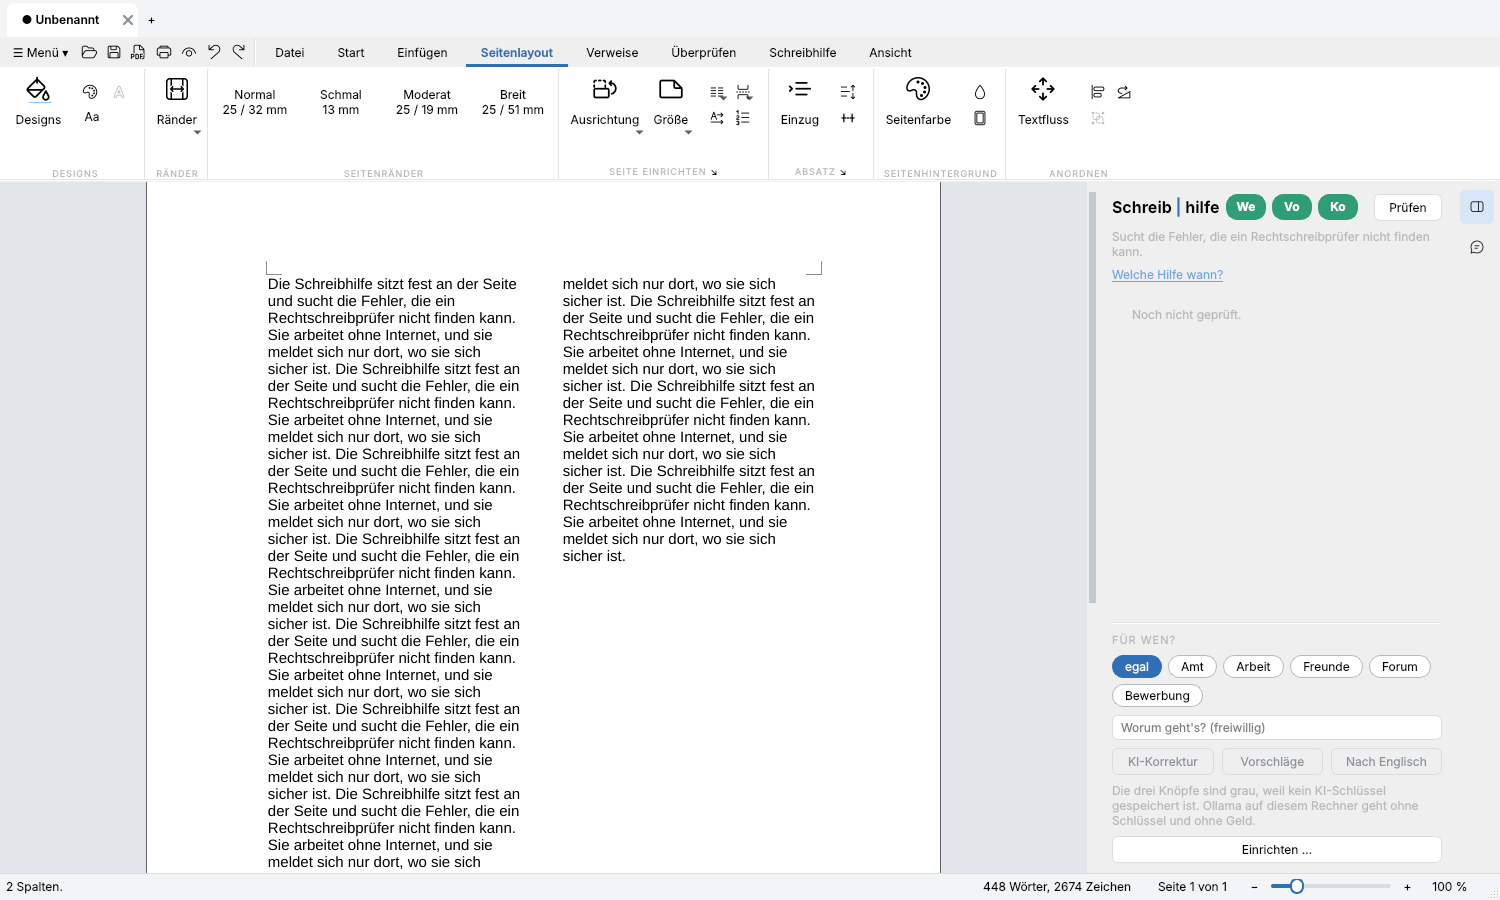
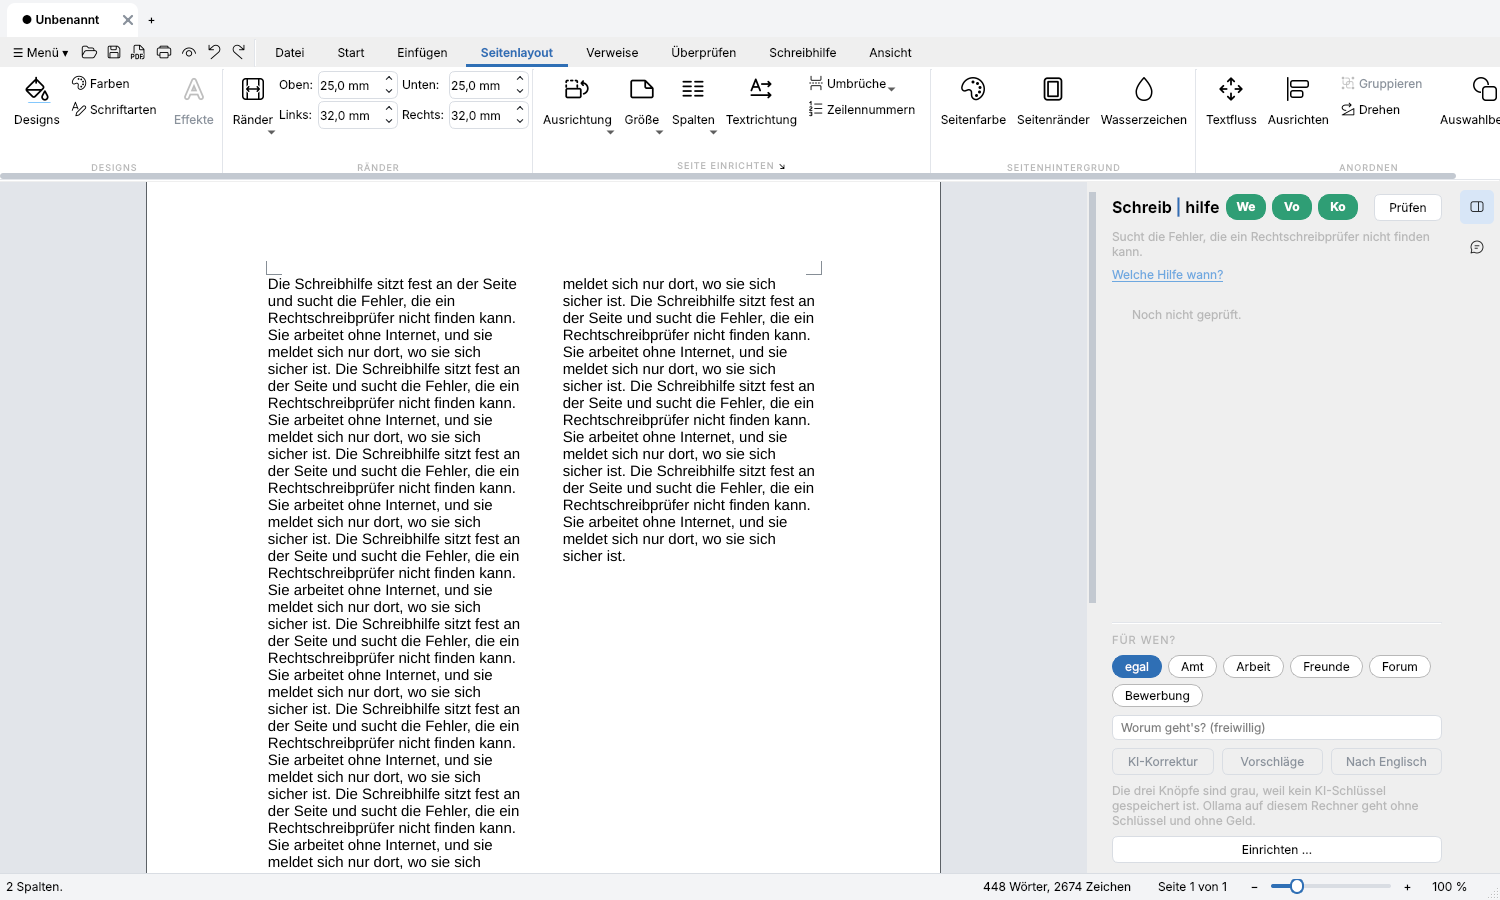
Reiter Seitenlayout wie WPS: Designs, Raender mit vier Massfeldern (Oben/Unten/Links/Rechts, Maßeinheit), Seite einrichten (Orientierung, Groesse, Spalten 1-4, Textrichtung, Umbrueche, Zeilennummern), Seitenhintergrund, Anordnen; Tests; Bilder neu
Claude-Session: https://claude.ai/code/session_016D74conPEqMaSeCxiwDhWx

Changed region(s): [[0.0, 0.0933, 0.9507, 0.1556], [0.0, 0.1867, 0.9813, 0.2178], [0.9507, 0.0933, 1.0, 0.1556]]

diff --git a/src/lunivo_writer/ui/ribbon/tabs/layout_tab.py b/src/lunivo_writer/ui/ribbon/tabs/layout_tab.py
@@ -1,6 +1,34 @@
-"""Reiter „Seitenlayout“: Gruppen aus register.json."""
+"""Reiter „Seitenlayout“ in der Anordnung von WPS Office: Designs, Ränder mit den vier Maßfeldern, Seite einrichten
+(Orientierung, Größe, Spalten, Textrichtung, Umbrüche, Zeilennummern), Seitenhintergrund und Anordnen.
+Einzug, Absatzabstand und Silbentrennung stehen wie bei WPS nicht hier, sondern unter Start ▸ Absatz und Schreibhilfe."""
 from __future__ import annotations
+
+from lunivo_writer.ui.ribbon.tabs.baustein import k as _k
 
 
 def bauen(register: dict) -> dict:
-    return next(t for t in register["register"] if t["name"] == "Seitenlayout")
+    tab = next(t for t in register["register"] if t["name"] == "Seitenlayout")
+    alt = {g["name"]: g for g in tab["gruppen"]}
+    knopf = {k["name"]: k for g in tab["gruppen"] for k in g.get("knoepfe", [])}
+
+    def mit(name, **kw):
+        return dict(knopf[name], **kw)
+
+    spalten = mit("Spalten", gross=True)
+    menue = list(spalten["menue"])
+    if not any(e.get("name") == "Vier" for e in menue):                  # 1 bis 4 Spalten
+        menue.insert(3, {"name": "Vier", "tun": "spaltenSetzen:[4]", "haken": "w.spaltenJetzt"})
+    spalten["menue"] = menue
+
+    designs = {"name": "Designs", "reihenfolge": True, "knoepfe": [
+        mit("Designs", gross=True), mit("Farben", text=True), mit("Schriftarten", symbol="Stil", text=True), mit("Effekte", gross=True)]}
+    raender = {"name": "Ränder", "felder": "raender", "reihenfolge": True, "knoepfe": [mit("Ränder", gross=True)]}
+    einrichten = {"name": "Seite einrichten", "pfeil": alt["Seite einrichten"].get("pfeil"), "reihenfolge": True, "knoepfe": [
+        mit("Ausrichtung", gross=True), mit("Größe", gross=True), spalten, mit("Textrichtung", gross=True),
+        mit("Umbrüche", text=True), mit("Zeilennummern", text=True)]}
+    hintergrund = {"name": "Seitenhintergrund", "reihenfolge": True, "knoepfe": [
+        mit("Seitenfarbe", gross=True), mit("Seitenränder", gross=True), mit("Wasserzeichen", gross=True)]}
+    anordnen = {"name": "Anordnen", "reihenfolge": True, "knoepfe": [
+        mit("Textfluss", gross=True), mit("Ausrichten", gross=True), mit("Gruppieren", text=True), mit("Drehen", text=True),
+        _k("objekte", "Auswahlbereich", "objekteWaehlen", True)]}
+    return dict(tab, gruppen=[designs, raender, einrichten, hintergrund, anordnen])

diff --git a/tests/test_layout_tab.py b/tests/test_layout_tab.py
@@ -1,0 +1,39 @@
+"""Reiter Seitenlayout (Anordnung wie WPS): Maßfelder für die Ränder, Spalten 1 bis 4."""
+from PySide6.QtCore import QSettings
+
+from lunivo_writer.services.settings_service import Settings
+from lunivo_writer.ui.main_window import MainWindow
+
+
+def fenster(tmp_path):
+    w = MainWindow(Settings(QSettings(str(tmp_path / "s.ini"), QSettings.IniFormat)))
+    w.show()
+    w.new_document()
+    return w
+
+
+def test_randfelder_setzen_den_rand_und_zeigen_ihn_an(app, tmp_path):
+    w = fenster(tmp_path)
+    f = w.band.felder
+    assert {"rand_oben", "rand_unten", "rand_links", "rand_rechts"} <= set(f)
+    w._sync_format()
+    t = w.current_tab()
+    assert abs(f["rand_links"].value() - t.page.margin_left_mm) < 0.01
+    f["rand_links"].setValue(40.0)                                   # wirkt wie eine Eingabe im Feld
+    assert abs(t.page.margin_left_mm - 40.0) < 0.01
+    assert abs(t.page.margin_top_mm - 25.0) < 0.01                   # die anderen Ränder bleiben
+    t.page.margin_top_mm = 30.0                                      # von außen geändert (Dialog): das Feld folgt
+    w._sync_format()
+    assert abs(f["rand_oben"].value() - 30.0) < 0.01
+
+
+def test_reihenfolge_der_gruppen_und_vier_spalten(app, tmp_path):
+    w = fenster(tmp_path)
+    r = w.band.reiter
+    i = next(i for i in range(r.count()) if r.tabText(i) == "Seitenlayout")
+    from PySide6.QtWidgets import QLabel
+    seite = w.band.stapel.widget(i).widget()
+    titel = [l.text() for l in seite.findChildren(QLabel) if l.text() in ("DESIGNS", "RÄNDER", "SEITE EINRICHTEN", "SEITENHINTERGRUND", "ANORDNEN")]
+    assert titel == ["DESIGNS", "RÄNDER", "SEITE EINRICHTEN", "SEITENHINTERGRUND", "ANORDNEN"]
+    w.befehle.tun("spaltenSetzen:[4]")
+    assert w.current_tab().page.spalten == 4

diff --git a/src/lunivo_writer/ui/ribbon/ribbon_bar.py b/src/lunivo_writer/ui/ribbon/ribbon_bar.py
@@ -298,7 +298,36 @@ class RegisterBand(QWidget):
         v.addStretch(1)
         inhalt.addLayout(v)
 
+    def _knoepfe_raender(self, g: dict, inhalt: QHBoxLayout):
+        """Der Rand-Knopf und daneben wie bei WPS die vier Maßfelder Oben/Unten/Links/Rechts (in der gewählten Maßeinheit)."""
+        from lunivo_writer.ui.dialogs.dokument_dialoge import _MassSpin
+        self._knoepfe_geordnet(g, inhalt)
+        host = QWidget()
+        gitter = QGridLayout(host)
+        gitter.setContentsMargins(0, 0, 0, 0)
+        gitter.setHorizontalSpacing(4)
+        gitter.setVerticalSpacing(2)
+        spins = {}
+        for zeile, spalte, schl, name in ((0, 0, "oben", "Oben:"), (0, 2, "unten", "Unten:"), (1, 0, "links", "Links:"), (1, 2, "rechts", "Rechts:")):
+            sp = _MassSpin()
+            sp.setRange(0.0, 200.0)
+            sp.setDecimals(1)
+            sp.setSingleStep(1.0)
+            sp.setKeyboardTracking(False)
+            sp.setFixedWidth(80)
+            gitter.addWidget(QLabel(name), zeile, spalte)
+            gitter.addWidget(sp, zeile, spalte + 1)
+            spins[schl] = sp
+            self.felder["rand_" + schl] = sp
+            self.knoepfe.append((sp, None, True))
+        for sp in spins.values():
+            sp.valueChanged.connect(lambda _v, sps=spins: self.b.w.set_margins(
+                sps["oben"].value(), sps["unten"].value(), sps["links"].value(), sps["rechts"].value()))
+        inhalt.addWidget(host, 0, Qt.AlignTop)
+
     def _knoepfe(self, g: dict, inhalt: QHBoxLayout):
+        if g.get("felder") == "raender":
+            return self._knoepfe_raender(g, inhalt)
         if g.get("felder") == "zeile":
             return self._knoepfe_schrift(g, inhalt)
         if g.get("reihenfolge"):

diff --git a/src/lunivo_writer/ui/main_window.py b/src/lunivo_writer/ui/main_window.py
@@ -369,6 +369,13 @@ class MainWindow(QMainWindow):
         f["font"].blockSignals(True); f["font"].setCurrentFont(QFont(fam)); f["font"].blockSignals(False)
         size = cf.fontPointSize() or e.document().defaultFont().pointSizeF() or 11
         f["groesse"].blockSignals(True); f["groesse"].setEditText(f"{size:g}"); f["groesse"].blockSignals(False)
+        t = self.current_tab()
+        if t is not None and "rand_oben" in f:                       # Maßfelder im Reiter Seitenlayout
+            p = t.page
+            for schl, wert in (("oben", p.margin_top_mm), ("unten", p.margin_bottom_mm), ("links", p.margin_left_mm), ("rechts", p.margin_right_mm)):
+                sp = f["rand_" + schl]
+                if not sp.hasFocus():
+                    sp.blockSignals(True); sp.setValue(wert); sp.blockSignals(False)
         st = e.current_style()
         f["stil"].blockSignals(True); f["stil"].setCurrentText("Fließtext" if st == "Standard" else st); f["stil"].blockSignals(False)
 

diff --git a/docs/PRUEFBOGEN.md b/docs/PRUEFBOGEN.md
@@ -1,6 +1,6 @@
 # Prüfbogen ↔ native Fassung
 
-Erzeugt von `werkzeug/pruefbogen-abgleich.py` aus dem Prüfkatalog (415 Punkte). **✅ 324 · ◐ 66 · ⬜ 25**. ✅ = Befehl/Funktion vorhanden (einzeln getestet nur, wo `tests/` es belegt); ◐ = teilweise oder anders gelöst; ⬜ = offen.
+Erzeugt von `werkzeug/pruefbogen-abgleich.py` aus dem Prüfkatalog (415 Punkte). **✅ 322 · ◐ 66 · ⬜ 27**. ✅ = Befehl/Funktion vorhanden (einzeln getestet nur, wo `tests/` es belegt); ◐ = teilweise oder anders gelöst; ⬜ = offen.
 Die Bilder des Bogens (bindend, 1 zu 1) liegen unter `docs/pruefbogen/bilder/`.
 
 ## DATEI
@@ -146,8 +146,8 @@ Die Bilder des Bogens (bindend, 1 zu 1) liegen unter `docs/pruefbogen/bilder/`.
 - ✅ Umbruch > Seitenumbruch — Band: Einfügen ▸ Seiten, Seitenlayout ▸ Seite einrichten ▸ Umbrüche
 - ✅ Umbruch > Spaltenumbruch — 1–4 Spalten live im Editor (editor_widget._sp_*), Seitenansicht, Druck, PDF, DOCX w:cols/Spaltenumbruch (test_spalten_editor, test_werkzeuge; mit LibreOffice geprüft). Gilt für das ganze Dokument; bei mehreren Spalten wirkt ein Seitenumbruch wie ein Spaltenumbruch
 - ◐ Umbruch > Abschnittsumbruch — nur „Nächste Seite“ (Seitenumbruch); Abschnitte kennt Qt nicht
-- ✅ Einzug — Band: Seitenlayout ▸ Absatz
-- ✅ Absatzabstand — Band: Seitenlayout ▸ Absatz
+- ⬜ Einzug — (noch nicht zugeordnet)
+- ⬜ Absatzabstand — (noch nicht zugeordnet)
 - ✅ Zeilennummern — Band: Seitenlayout ▸ Seite einrichten
 - ◐ Silbentrennung — pyphen setzt weiche Trennstellen in Seitenansicht, Druck, PDF; DOCX autoHyphenation (test_werkzeuge). Die Bearbeitungsansicht zeigt keine Trennstriche
 - ◐ Textumbruch — Bild links/rechts vom Text umflossen oder in eigener Zeile (editor/umbruch.py, DOCX wp:anchor wrapSquare, test_werkzeuge); „Hinter/vor dem Text“ und freie Position fehlen
